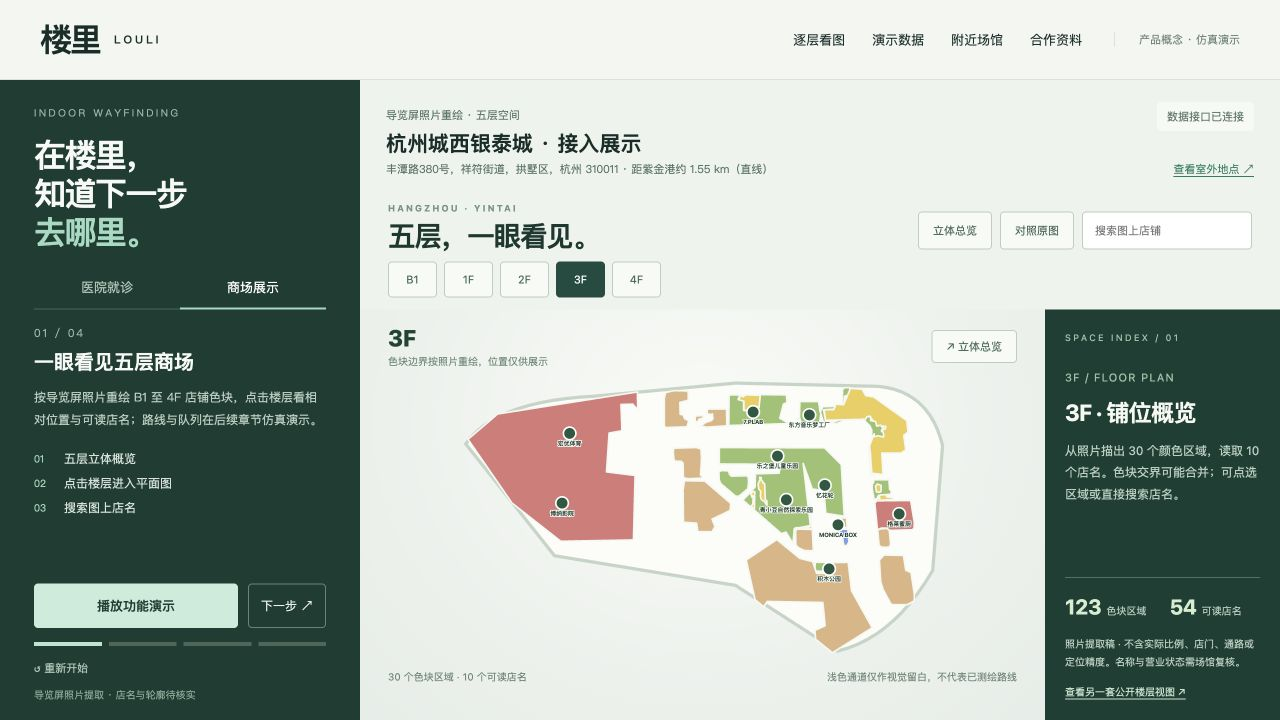
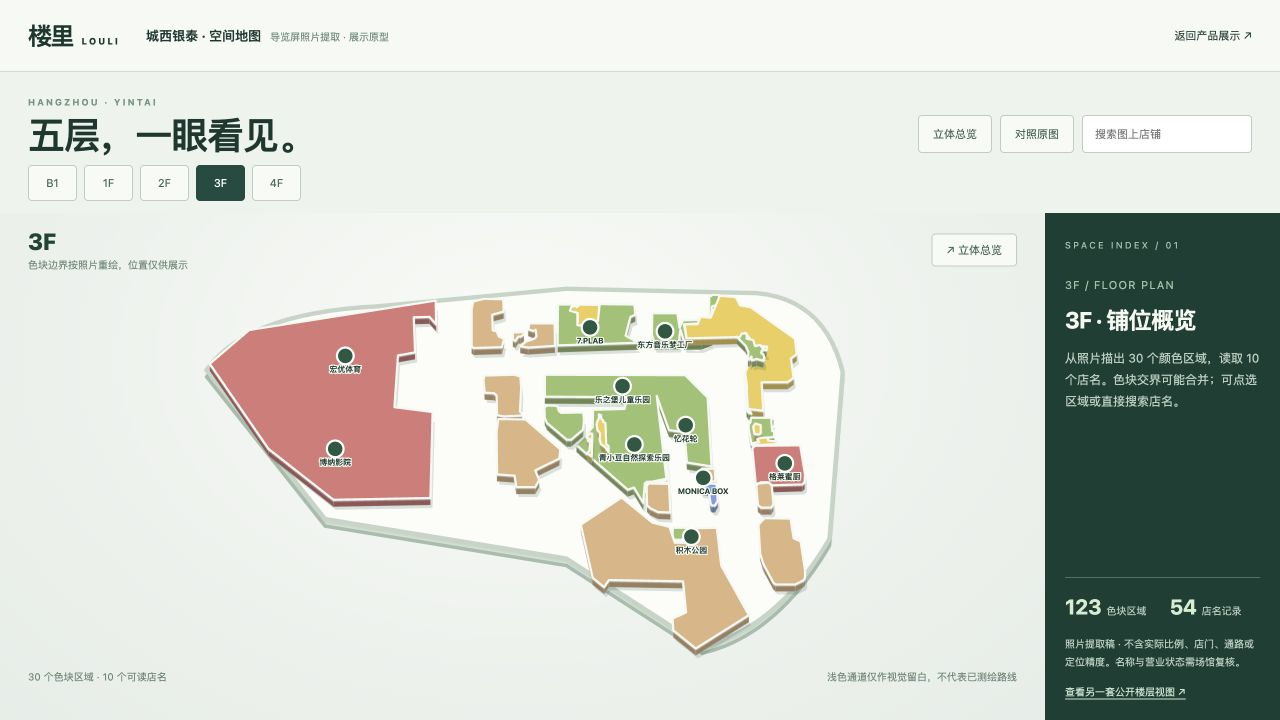
Add subtle room relief to Yintai floor maps

diff --git a/frontend/styles/spatial-map.css b/frontend/styles/spatial-map.css
@@ -1,1 +1,8 @@
 :root{font-family:-apple-system,BlinkMacSystemFont,"PingFang SC","Microsoft YaHei",sans-serif;color:#15382f;background:#e8eee9}*{box-sizing:border-box}body{margin:0}button,input{font:inherit}button{cursor:pointer}button:focus-visible,a:focus-visible,input:focus-visible,[role=button]:focus-visible{outline:3px solid #d8a34d;outline-offset:3px}[hidden]{display:none!important}.visually-hidden{position:absolute;width:1px;height:1px;overflow:hidden;clip:rect(0,0,0,0)}.spatial-app{min-height:100svh;display:flex;flex-direction:column;overflow:hidden}.spatial-header{height:72px;padding:0 28px;display:flex;align-items:center;gap:26px;background:#f7f9f5;border-bottom:1px solid #cfddd4}.spatial-header a{color:#15382f;text-decoration:none}.spatial-brand{font-size:24px;font-weight:800;letter-spacing:-1.5px;white-space:nowrap}.spatial-brand span{font-size:9px;letter-spacing:2px;margin-left:5px}.spatial-header>div{display:flex;gap:9px;align-items:baseline}.spatial-header strong{font-size:13px}.spatial-header small{font-size:10px;color:#668779}.back-link{margin-left:auto;font-size:11px}.spatial-toolbar{padding:18px 28px 12px;display:flex;align-items:end;justify-content:space-between;gap:16px;background:#eef3ed}.toolbar-title small{letter-spacing:2px;font-size:9px;font-weight:700;color:#729483}.toolbar-title h1{font-size:clamp(22px,3vw,37px);letter-spacing:-1.2px;line-height:1;margin:7px 0 0}.toolbar-actions{display:flex;gap:8px;align-items:center}.mode-btn,.floor-nav button,.plan-heading button{border:1px solid #bdcec3;color:#416558;background:#f8faf6;min-height:38px;padding:0 14px;border-radius:4px;font-size:11px;white-space:nowrap}.mode-btn.active,.floor-nav button.active{background:#184c3f;color:#fff;border-color:#184c3f}.mode-btn:disabled{opacity:.45;cursor:default}.shop-search input{height:38px;width:170px;border:1px solid #bdcec3;border-radius:4px;background:#fff;padding:0 12px;font-size:11px;outline-color:#2c8a6d}.floor-nav{display:flex;gap:7px;padding:0 28px 12px;background:#eef3ed}.floor-nav button{min-height:36px;min-width:49px}.search-results{position:absolute;right:27px;top:154px;width:min(310px,calc(100% - 30px));max-height:260px;overflow:auto;background:#fff;box-shadow:0 15px 40px #163d322c;z-index:9;padding:5px;border:1px solid #d2dfd6}.search-results button{width:100%;display:block;text-align:left;background:none;border:0;border-bottom:1px solid #e6eee8;padding:10px 12px;color:#254d3e;font-size:12px}.search-results button:hover{background:#eef5ee}.spatial-workspace{display:grid;grid-template-columns:minmax(0,1fr) 235px;flex:1;min-height:440px}.map-canvas{min-height:440px;position:relative;overflow:hidden;background:radial-gradient(ellipse at 50% 28%,#f9fbf7 0%,#edf2ed 58%,#e5ede7 100%)}.spatial-inspector{padding:27px 20px 21px;background:#153f34;color:#f5f8f1;display:flex;flex-direction:column;min-width:0}.inspector-kicker{font-size:9px;letter-spacing:2.3px;color:#98c6ad}.inspector-floor{display:block;margin-top:28px;font-size:11px;letter-spacing:1.2px;color:#95c5a7}.spatial-inspector h2{font-size:23px;line-height:1.35;letter-spacing:-.5px;margin:13px 0 12px;overflow-wrap:anywhere}.spatial-inspector p{font-size:12px;line-height:1.8;color:#b7d0c1;margin:0}.inspector-bottom{margin-top:auto;padding-top:24px}.count-row{display:grid;grid-template-columns:auto 1fr auto 1fr;gap:5px;align-items:baseline;border-top:1px solid #4c7263;padding:16px 0}.count-row strong{font-size:21px;color:#d2edce}.count-row span{font-size:10px;color:#afcbbb}.inspector-bottom p{font-size:10px}.inspector-bottom a{display:block;margin-top:14px;font-size:10px;color:#c7e8cf;text-decoration:underline;text-underline-offset:3px}.stack-view,.plan-view{position:absolute;inset:0}.stack-guides{position:absolute;inset:10% 17% 7%;background:repeating-linear-gradient(to right,transparent 0,transparent 24.7%,#63857417 24.9%,transparent 25.1%);opacity:.7;transform:skewX(-13deg)}.stack-layers{position:relative;height:100%;width:100%;perspective:950px}.stack-layer{position:absolute;left:8%;width:83%;height:50%;top:calc(-3% + var(--level)*9%);border:0;background:transparent;padding:0;transform:rotateX(51deg) rotateZ(-7deg);filter:drop-shadow(0 13px 9px #1c48302a);transition:transform .35s ease,filter .35s ease;z-index:calc(5 - var(--level));}.stack-layer:hover,.stack-layer:focus-visible{transform:translateY(-13px) rotateX(51deg) rotateZ(-7deg);filter:drop-shadow(0 22px 13px #1c483044)}.stack-layer svg{width:100%;height:100%;overflow:visible}.floor-plate{fill:#fcfdf8;stroke:#c6d4c8;stroke-width:10px}.shop-zone{stroke:#f6f8f4;stroke-width:5px;stroke-linejoin:round;transition:opacity .2s,filter .2s}.stack-layer .shop-zone{stroke-width:10px;filter:drop-shadow(0 8px 1px #31564635)}.layer-tag{position:absolute;left:3%;top:37%;background:#174637;color:#fff;padding:8px 10px;font-size:12px;font-weight:750;letter-spacing:1px;box-shadow:0 4px 14px #204c3666}.stack-caption{position:absolute;left:28px;bottom:23px;display:flex;align-items:baseline;gap:14px;color:#345a48}.stack-caption span{font-size:10px;letter-spacing:2px;color:#729485}.stack-caption strong{font-size:12px}.plan-view{padding:14px 18px 32px;display:flex;flex-direction:column}.plan-heading{display:flex;justify-content:space-between;align-items:center;padding:1px 10px 8px}.plan-heading span{font-size:23px;font-weight:800;color:#164534}.plan-heading p{font-size:10px;color:#668775;margin:3px 0 0}.plan-heading button{min-height:33px}.plan-view svg{flex:1;min-height:0;width:100%;height:100%;background:transparent}.plan-view .shop-zone{cursor:pointer;stroke-width:5px}.plan-view .shop-zone:hover,.plan-view .shop-zone:focus-visible{filter:brightness(.91);stroke:#174e3c;stroke-width:7px}.plan-view .shop-zone.photo-outline{fill:transparent;stroke:#184f3c;stroke-width:3px;opacity:.7}.shop-label{cursor:pointer}.shop-label circle{fill:#245840;stroke:#fff;stroke-width:5px}.shop-label text{paint-order:stroke;stroke:#fcfff9;stroke-width:5px;fill:#173b2d;font-size:18px;font-weight:700;pointer-events:none}.shop-label:hover circle,.shop-label.picked circle{fill:#e39d38;r:25}.plan-footnote{display:flex;justify-content:space-between;gap:12px;font-size:10px;color:#698474;padding:4px 10px}.embedded .spatial-header{display:none}.embedded .spatial-toolbar{padding-top:116px}.embedded .spatial-workspace{min-height:0}.embedded .map-canvas{min-height:0}.embedded .spatial-inspector{padding-top:23px}@media(max-width:850px){.spatial-workspace{grid-template-columns:minmax(0,1fr) 195px}.spatial-inspector{padding:20px 14px}.spatial-inspector h2{font-size:18px}.spatial-toolbar{padding:12px 16px}.floor-nav{padding:0 16px 10px}.stack-layer{left:3%;width:92%}.embedded .spatial-toolbar{padding-top:116px}}@media(max-width:620px){.spatial-header{height:58px;padding:0 14px;gap:12px}.spatial-header>div{display:block}.spatial-header strong{display:block;font-size:10px}.spatial-header small{display:none}.back-link{display:none}.spatial-toolbar{display:block;padding:14px 14px 10px}.toolbar-title h1{font-size:23px}.toolbar-actions{margin-top:14px;display:grid;grid-template-columns:repeat(2,minmax(0,1fr));gap:7px}.toolbar-actions .shop-search{grid-column:1/-1}.shop-search input{width:100%;height:42px}.mode-btn{min-height:42px}.floor-nav{padding:0 14px 10px;justify-content:space-between}.floor-nav button{min-height:42px;flex:1}.spatial-workspace{display:flex;flex-direction:column;min-height:0}.map-canvas{height:415px;min-height:415px}.spatial-inspector{min-height:180px;padding:16px 18px}.inspector-floor{margin-top:10px}.spatial-inspector h2{font-size:20px;margin:8px 0}.spatial-inspector p{font-size:11px}.inspector-bottom{padding-top:10px}.count-row{padding:8px 0}.inspector-bottom p{font-size:9px}.stack-layer{left:1%;width:98%;height:52%;top:calc(-2% + var(--level)*9%)}.stack-caption{left:16px;bottom:8px}.plan-view{padding:8px 4px 18px}.plan-heading{padding:0 10px 5px}.plan-footnote{display:block;padding:0 10px}.plan-footnote span:last-child{display:none}.embedded .spatial-toolbar{padding-top:112px}.embedded .map-canvas{height:430px;min-height:430px}.embedded .spatial-inspector{min-height:150px}.search-results{top:182px;right:14px}}
+
+.floor-plate-edge{fill:#d4e1d5;stroke:#a5bdad;stroke-width:8px}
+.floor-plate{filter:drop-shadow(0 3px 2px #43634a18)}
+.shop-ground-shadow{fill:#1d493e;opacity:.16;pointer-events:none}
+.shop-side{filter:brightness(.70) saturate(.9);stroke:#ffffff40;stroke-width:2px;pointer-events:none}
+.shop-volume .shop-zone{filter:drop-shadow(0 2px 1px #ffffff80)}
+.stack-layer .shop-volume .shop-zone{filter:none}

diff --git a/frontend/js/spatial-map.js b/frontend/js/spatial-map.js
@@ -1,19 +1,27 @@
-import {floorById,filterShops,polygonPoints} from './spatial-data.mjs';
+import {floorById,filterShops,polygonPoints,visibleSideFaces} from './spatial-data.mjs';
 const $=s=>document.querySelector(s),svgNS='http://www.w3.org/2000/svg';
 const params=new URLSearchParams(location.search);
 if(params.get('embed')==='1')document.body.classList.add('embedded');
 let data,selectedFloor=null,selectedShop=null,sourcePhoto=false;
 const tones={rose:'#d97979',amber:'#deb582',yellow:'#edce55',green:'#9cc270',cyan:'#5dc5d3',blue:'#7c9ee4'};
 function svg(name,attributes={}){const el=document.createElementNS(svgNS,name);for(const [k,v] of Object.entries(attributes))el.setAttribute(k,String(v));return el;}
+function zoneTop(floor,zone,interactive){const polygon=svg('polygon',{points:polygonPoints(zone.shape),fill:tones[zone.tone]||tones.blue,class:'shop-zone',tabindex:interactive?'0':'-1','data-zone':zone.id});
+  if(interactive){polygon.setAttribute('role','button');polygon.setAttribute('aria-label',`${floor.id} 铺位色块，点击查看图上标注`);const choose=()=>selectZone(floor,zone);polygon.addEventListener('click',choose);polygon.addEventListener('keydown',e=>{if(e.key==='Enter'||e.key===' '){e.preventDefault();choose();}});}return polygon;}
 function shapeLayer(floor,interactive=false){const graphic=svg('svg',{viewBox:'40 215 1520 880',preserveAspectRatio:'xMidYMid meet'});if(!interactive)graphic.setAttribute('aria-hidden','true');
-  const plate=svg('path',{d:'M80 420 Q170 290 470 275 L900 235 L1335 245 Q1490 260 1530 425 L1500 805 Q1380 1010 1210 1050 L900 850 L350 760 Z',class:'floor-plate'});graphic.append(plate);
-  for(const zone of floor.zones){const polygon=svg('polygon',{points:polygonPoints(zone.shape),fill:tones[zone.tone]||tones.blue,class:'shop-zone',tabindex:interactive?'0':'-1','data-zone':zone.id});
-    if(interactive){polygon.setAttribute('role','button');polygon.setAttribute('aria-label',`${floor.id} 铺位色块，点击查看图上标注`);const choose=()=>selectZone(floor,zone);polygon.addEventListener('click',choose);polygon.addEventListener('keydown',e=>{if(e.key==='Enter'||e.key===' '){e.preventDefault();choose();}});}graphic.append(polygon);}
+  const outline='M80 420 Q170 290 470 275 L900 235 L1335 245 Q1490 260 1530 425 L1500 805 Q1380 1010 1210 1050 L900 850 L350 760 Z';
+  const depth=interactive?16:25;
+  graphic.append(svg('path',{d:outline,transform:`translate(0 ${depth})`,class:'floor-plate-edge'}));
+  graphic.append(svg('path',{d:outline,class:'floor-plate'}));
+  for(const zone of floor.zones){const volume=svg('g',{class:'shop-volume'}),fill=tones[zone.tone]||tones.blue;
+    volume.append(svg('polygon',{points:polygonPoints(zone.shape),transform:`translate(5 ${depth+7})`,class:'shop-ground-shadow'}));
+    for(const face of visibleSideFaces(zone.shape,depth))volume.append(svg('polygon',{points:polygonPoints(face),fill,class:'shop-side'}));
+    volume.append(zoneTop(floor,zone,interactive));graphic.append(volume);}
   return graphic;}
 function renderStack(){const host=$('#stackLayers');host.replaceChildren();const reverse=[...data.floors].reverse();reverse.forEach((floor,i)=>{const button=document.createElement('button');button.type='button';button.className='stack-layer';button.style.setProperty('--level',i);button.setAttribute('aria-label',`查看 ${floor.id} 楼层`);button.append(shapeLayer(floor));const tag=document.createElement('span');tag.className='layer-tag';tag.textContent=floor.id;button.append(tag);button.onclick=()=>selectFloor(floor.id);host.append(button);});}
 function renderPlan(){const floor=floorById(data,selectedFloor);if(!floor)return;$('#planFloor').textContent=floor.id;$('#planCount').textContent=`${floor.zones.length} 个色块区域 · ${floor.shops.length} 个可读店名`;
   const canvas=$('#planSvg');canvas.replaceChildren();if(sourcePhoto){const photo=svg('image',{href:floor.photo,x:0,y:0,width:1706,height:1279,preserveAspectRatio:'none'});canvas.append(photo);}
-  const layer=shapeLayer(floor,true);for(const child of [...layer.children]){if(sourcePhoto){if(child.classList.contains('shop-zone')){child.classList.add('photo-outline');canvas.append(child);}}else canvas.append(child);}
+  if(sourcePhoto){for(const zone of floor.zones){const outline=zoneTop(floor,zone,true);outline.classList.add('photo-outline');canvas.append(outline);}}
+  else{const layer=shapeLayer(floor,true);canvas.append(...[...layer.children]);}
   if(!sourcePhoto){for(const shop of floor.shops){const label=svg('g',{class:'shop-label'+(selectedShop?.id===shop.id?' picked':''),tabindex:'0',role:'button','aria-label':`${shop.name}，${floor.id}${shop.confidence==='review'?'，名称待核实':''}`});const chip=svg('circle',{cx:shop.x,cy:shop.y,r:19});const text=svg('text',{x:shop.x,y:shop.y+37,'text-anchor':'middle'});text.textContent=shop.name.length>10?shop.name.slice(0,9)+'…':shop.name;label.append(chip,text);const choose=()=>selectShop(shop,floor.id);label.addEventListener('click',choose);label.addEventListener('keydown',e=>{if(e.key==='Enter'||e.key===' '){e.preventDefault();choose();}});canvas.append(label);}}
 }
 function updateMode(){const inPlan=!!selectedFloor;$('#stackView').hidden=inPlan;$('#planView').hidden=!inPlan;$('#overviewBtn').classList.toggle('active',!inPlan);$('#overviewBtn').setAttribute('aria-pressed',String(!inPlan));$('#photoBtn').disabled=!inPlan;$('#photoBtn').classList.toggle('active',sourcePhoto&&inPlan);$('#photoBtn').setAttribute('aria-pressed',String(sourcePhoto&&inPlan));document.querySelectorAll('[data-floor]').forEach(b=>b.classList.toggle('active',b.dataset.floor===selectedFloor));if(inPlan)renderPlan();}

diff --git a/materials/media/README.md b/materials/media/README.md
@@ -1,6 +1,6 @@
 # 展示媒体说明
 
-`yintai-spatial-demo.gif` 是当前首选材料：五层立体概览、3F 店铺形状与名称、博纳影院搜索结果，以及下一章的仿真路线。静态截图对应 `yintai-spatial-stack.png`、`yintai-spatial-3f.png`、`yintai-spatial-shop.png`、`yintai-spatial-route.png`，另附 `yintai-spatial-mobile.png`。五层原照片可在交互页面的“对照原图”中查看。
+`yintai-spatial-demo.gif` 是当前首选材料：五层立体概览、轻微抬起的 2F/3F 铺位、博纳影院搜索结果，以及下一章的仿真路线。静态截图对应 `yintai-spatial-stack.png`、`yintai-spatial-2f-relief.png`、`yintai-spatial-3f.png`、`yintai-spatial-shop.png`、`yintai-spatial-route.png`，另附手机总览 `yintai-spatial-mobile.png` 和单层图 `yintai-spatial-mobile-plan.png`。五层原照片可在交互页面的“对照原图”中查看。
 
 `yintai-public-floor.gif` 与 `yintai-public-floor.png` 是前一版百度地图公开视图展示，保留用于比较不同资料来源。
 
